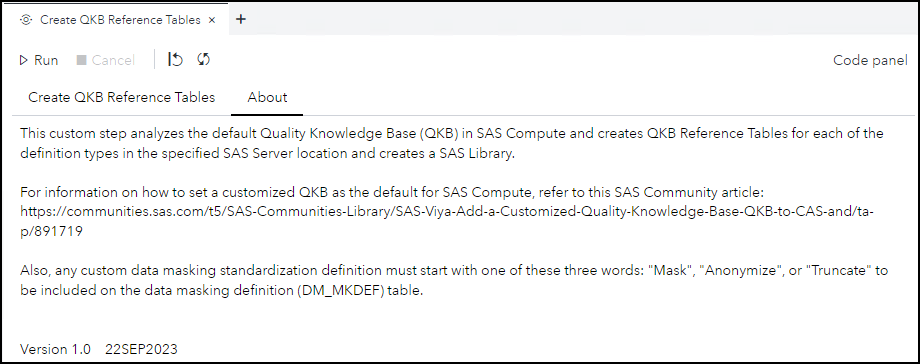
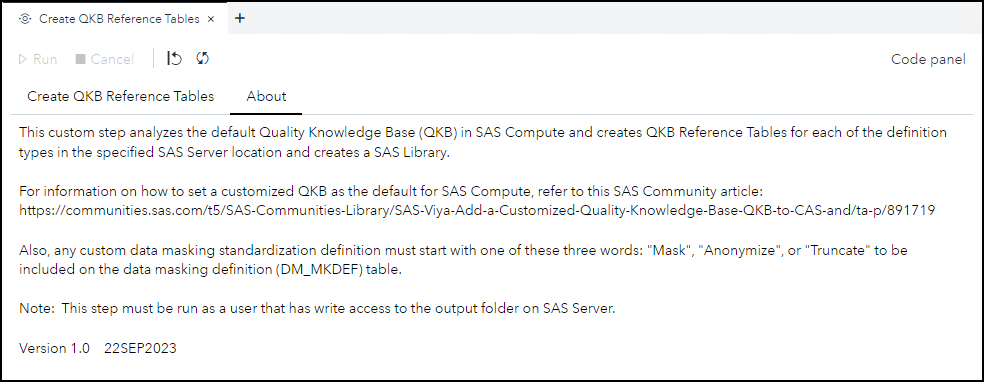
updated About and Requirements

diff --git a/DQ - Create QKB Reference Tables/README.md b/DQ - Create QKB Reference Tables/README.md
@@ -23,13 +23,13 @@ After running this custom step, you may want to consider adding the created SAS 
 * ### About tab ###
 ![](img/AboutTab.png)
 
-
 ## Requirements
 
 * SAS Viya 2023.06 or later
-* Specified path for output tables must exist on the SAS Server
 * Customized QKB is set as default in SAS Compute.  Refer to [this article](https://communities.sas.com/t5/SAS-Communities-Library/SAS-Viya-Add-a-Customized-Quality-Knowledge-Base-QKB-to-CAS-and/ta-p/891719) for more information.
 * Custom Data Masking standardization definitions must start with either "Mask", "Anonymize", or "Truncate" to be included on the output data masking definition (DM_MKDEF) table.
+* Specified path for output tables must exist on the SAS Server
+* Custom step must be executed by a user that has write access to the output path on the SAS Server
 
 
 ## Usage
